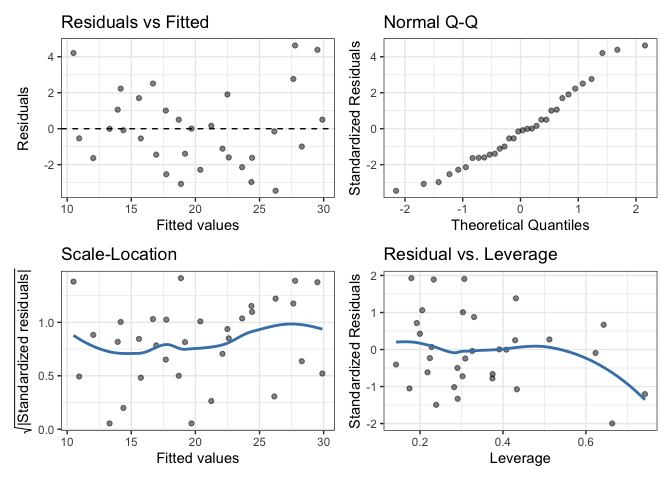
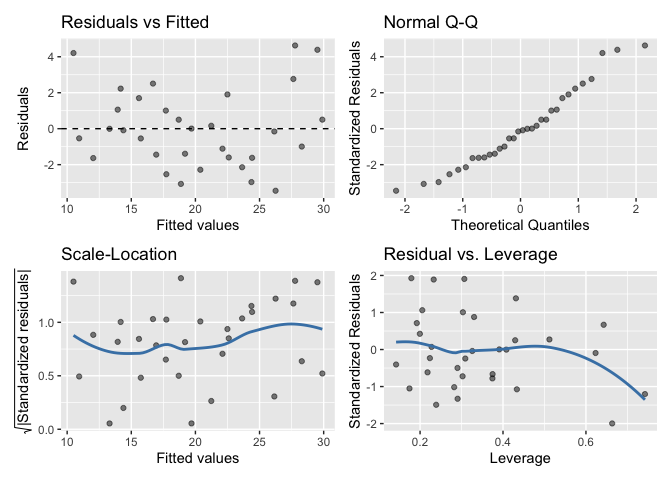
update for gray theme

diff --git a/README.md b/README.md
@@ -25,11 +25,11 @@ particular model diagnostic plots.
 ### Example 1: Quickly creating the four diagnostic plots
 
 ``` r
-library(gglm)
-library(ggplot2)
+library(gglm) # Load the package
 data(mtcars) # Load example data
-m1 <- lm(mpg ~ ., data = mtcars) # Create your model
-gglm(m1)
+model <- lm(mpg ~ ., data = mtcars) # Create your model
+
+gglm(model) # Plot the four main diagnostic plots
 ```
 
 ![](README_files/figure-gfm/unnamed-chunk-2-1.png)<!-- -->
@@ -37,15 +37,22 @@ gglm(m1)
 ### Example 2: Using the Grammar of Graphics
 
 ``` r
-library(gglm) 
-library(ggplot2)
-data(mtcars) # Load example data
-model <- lm(mpg ~ ., data = mtcars) # Create your model
+library(ggplot2) # Need to load ggplot2
+
 ggplot(data = model) +
   stat_fitted_resid()
 ```
 
 ![](README_files/figure-gfm/unnamed-chunk-3-1.png)<!-- -->
+
+``` r
+# We can also add layers such as themes to these `ggplot`s and adjust features of the plot:
+ggplot(data = model) +
+  stat_cooks_leverage(alpha = 1) +
+  theme_minimal()
+```
+
+![](README_files/figure-gfm/unnamed-chunk-3-2.png)<!-- -->
 
 ## Functions
 
